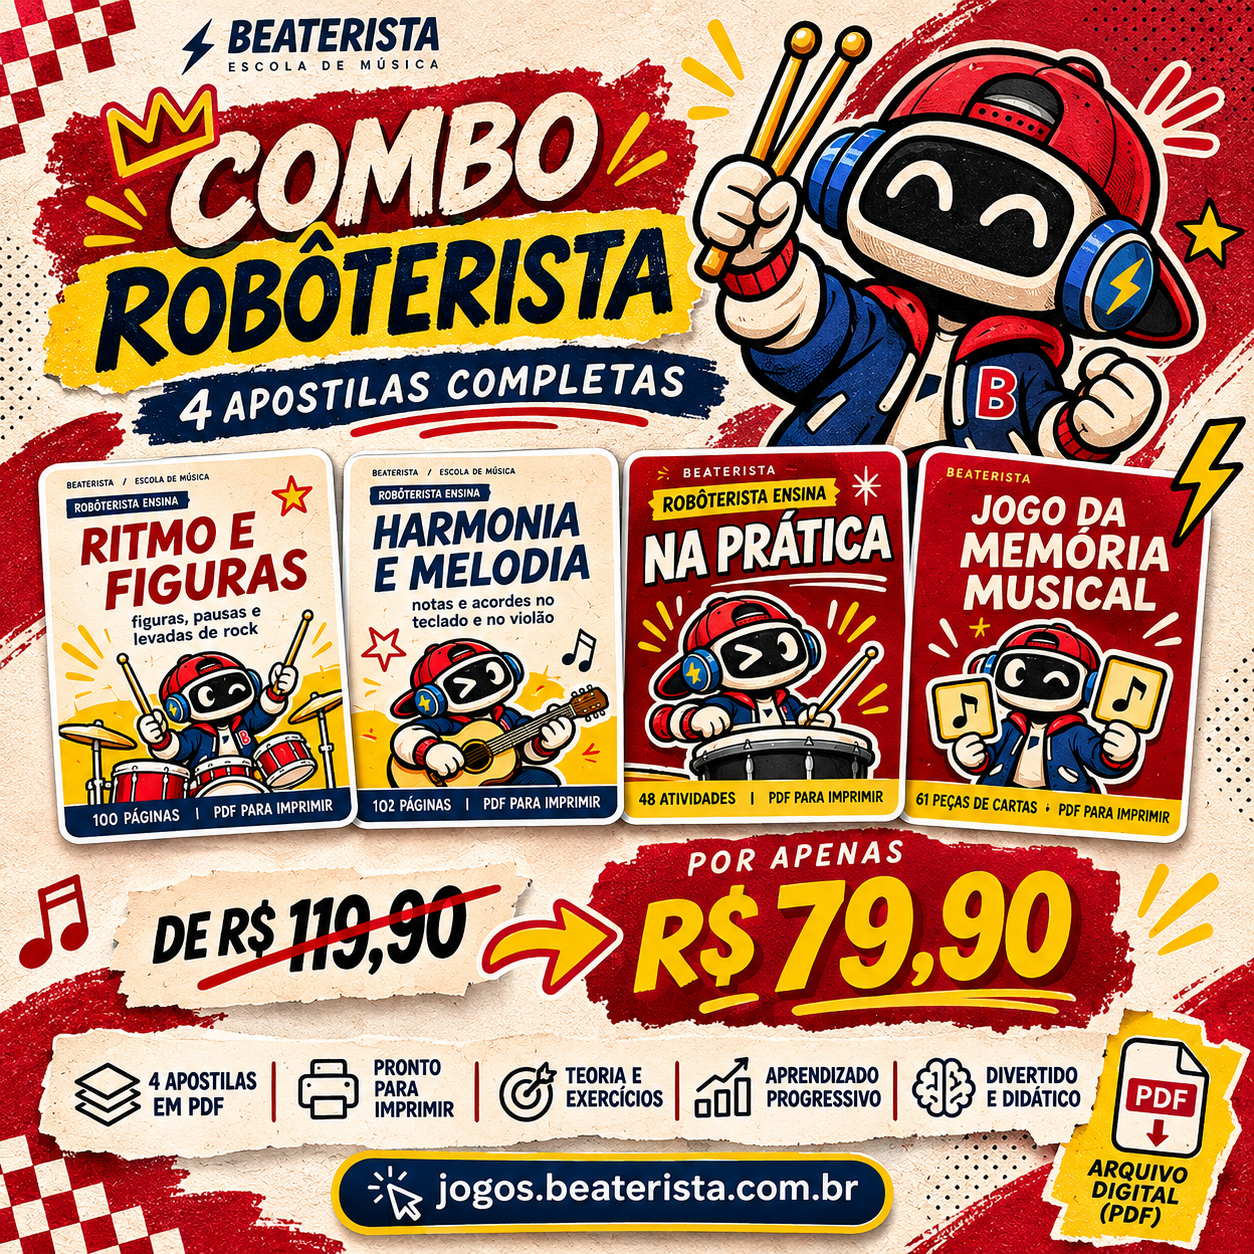
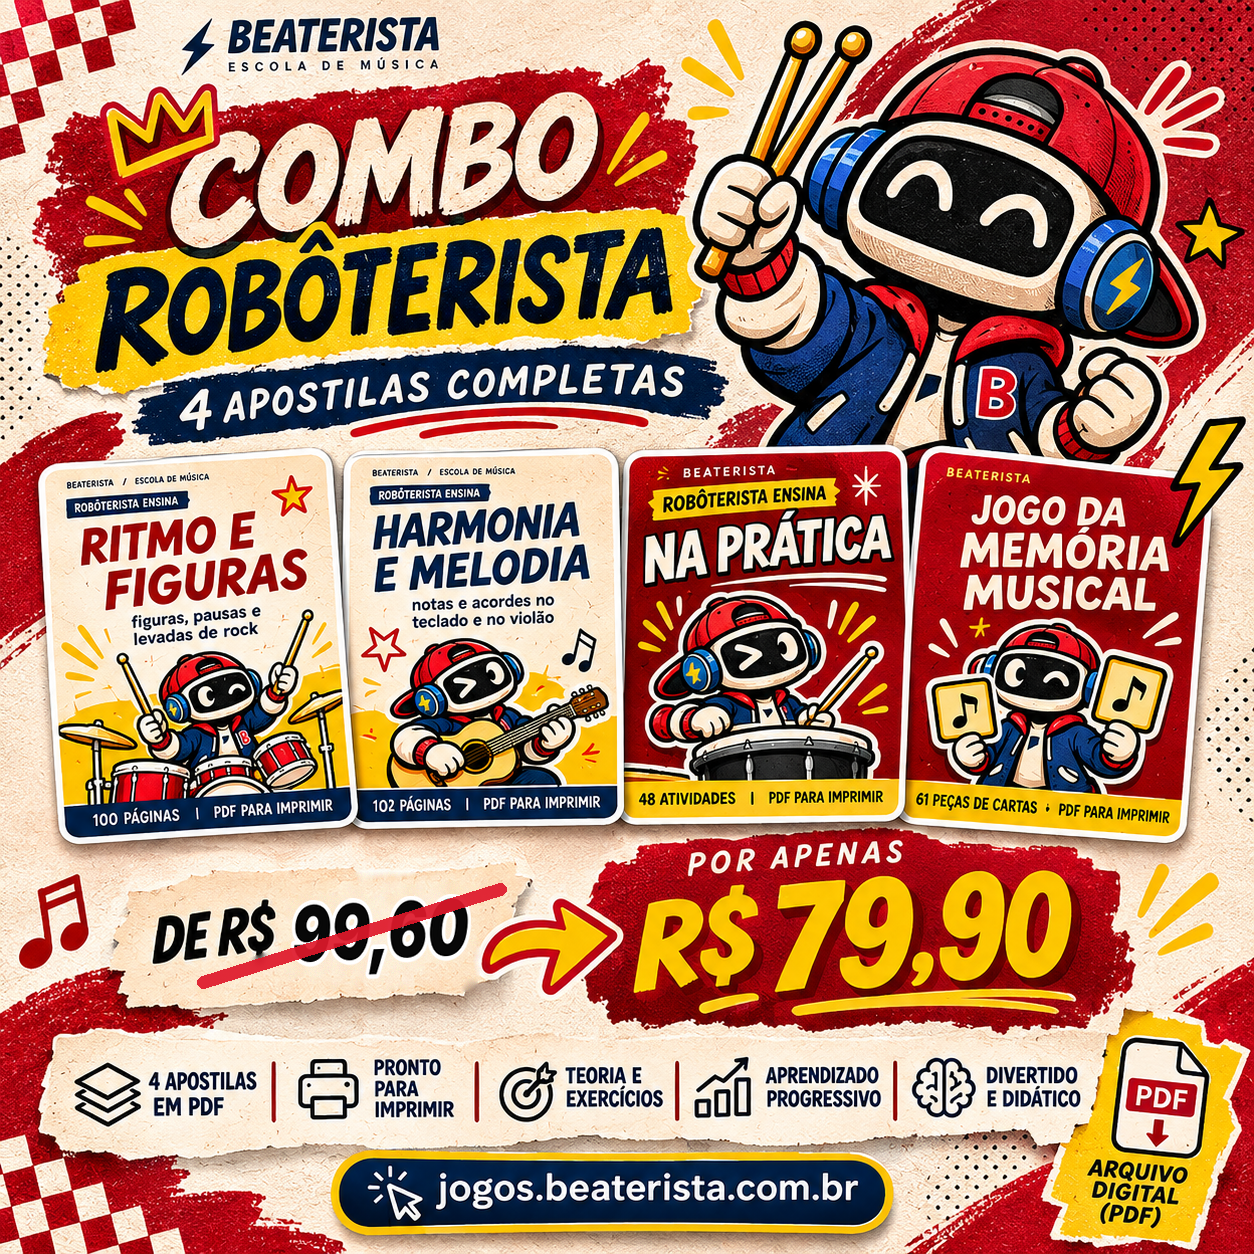
Combo: preço de R$ 99,60 (soma real) na arte e na página de vendas
Claude-Session: https://claude.ai/code/session_017Ekti1GX9ozYE3rJDxhECA

Changed region(s): [[0.1866, 0.6842, 0.4043, 0.7775], [0.1555, 0.7775, 0.1866, 0.8086]]

diff --git a/vendas/index.html b/vendas/index.html
@@ -478,7 +478,7 @@ details{border-width:1px;padding:10px 14px;margin-bottom:7px}
       <h2 id="be-roboc-title">combo <span>robôterista</span></h2>
       <p>quatro materiais para tornar o aprendizado musical mais visual, criativo e divertido — com ritmo, figuras, harmonia, melodia, exercícios e jogo da memória.</p>
       <div class="be-roboc-chips"><span>4 materiais em PDF</span><span>para imprimir</span><span>teoria + prática</span></div>
-      <div class="be-roboc-price"><s>de R$ 119,90</s><strong>R$ 79,90</strong></div>
+      <div class="be-roboc-price"><s>de R$ 99,60</s><strong>R$ 79,90</strong></div>
       <a class="be-roboc-button" href="https://pay.hotmart.com/K108463375K?src=vendas" target="_blank" rel="noopener noreferrer" aria-label="comprar Combo Robôterista na Hotmart por R$ 79,90">QUERO MEU COMBO ↗</a>
       <p class="be-roboc-small">pagamento pela Hotmart • produto digital em PDF, sem envio físico</p>
     </div>

diff --git a/sw.js b/sw.js
@@ -1,5 +1,5 @@
 // Service worker: cacheia só o "casco" do app (código + marca). Nenhum dado do usuário passa por aqui.
-const VERSION = 'beaterista-v485';
+const VERSION = 'beaterista-v486';
 const SHELL = [
   'js/paulta/livre.js', 'js/dicas-aluno.js',
   'js/paulta/mapa.js',

diff --git a/PASSAGEM.md b/PASSAGEM.md
@@ -567,5 +567,5 @@ No ar em jogos.beaterista.com.br: aba Estudos, Tocar com 4 instrumentos, figuras
 
 ## Black Friday: Combo Robôterista (nov/2026)
 - **Bloco grande do combo no topo da Lojinha** (sem aba própria; `destaqueCombo()` em `js/views/lojinha-vitrine.js`, config `COMBO` em `js/loja-config.js`): arte do combo (`assets/loja/combo-black-friday.webp`, original em `assets/originals/artes-beaterista/`) + botão Adquirir pro link Hotmart `K108463375K`, R$ 79,90. Teste: `tests/e2e/lojinha-blackfriday.mjs`. Cache v482. Falta publicar a área dos alunos (e o app da Bea sai com o push na `main`).
-- Arte corrigida: Harmonia agora diz 102 páginas. Ainda diz "de R$ 119,90" (a soma dos 4 hoje é R$ 99,60).
-- **Página de vendas (`vendas/index.html`)**: bloco `#combo-roboterista` (do pacote `combo_roboterista_para_site.zip`, Bea nov/2026) logo antes de "Materiais do Robôterista Paul". Imagem corrigida (102 págs) em `vendas/assets/combo-roboterista.webp`; link Hotmart com `?src=vendas`. O bloco ainda diz "de R$ 119,90".
+- Arte corrigida: Harmonia agora diz 102 páginas. Preço "de" = R$ 99,60 (soma real dos 4).
+- **Página de vendas (`vendas/index.html`)**: bloco `#combo-roboterista` (do pacote `combo_roboterista_para_site.zip`, Bea nov/2026) logo antes de "Materiais do Robôterista Paul". Imagem corrigida (102 págs) em `vendas/assets/combo-roboterista.webp`; link Hotmart com `?src=vendas`. O bloco diz "de R$ 99,60".
